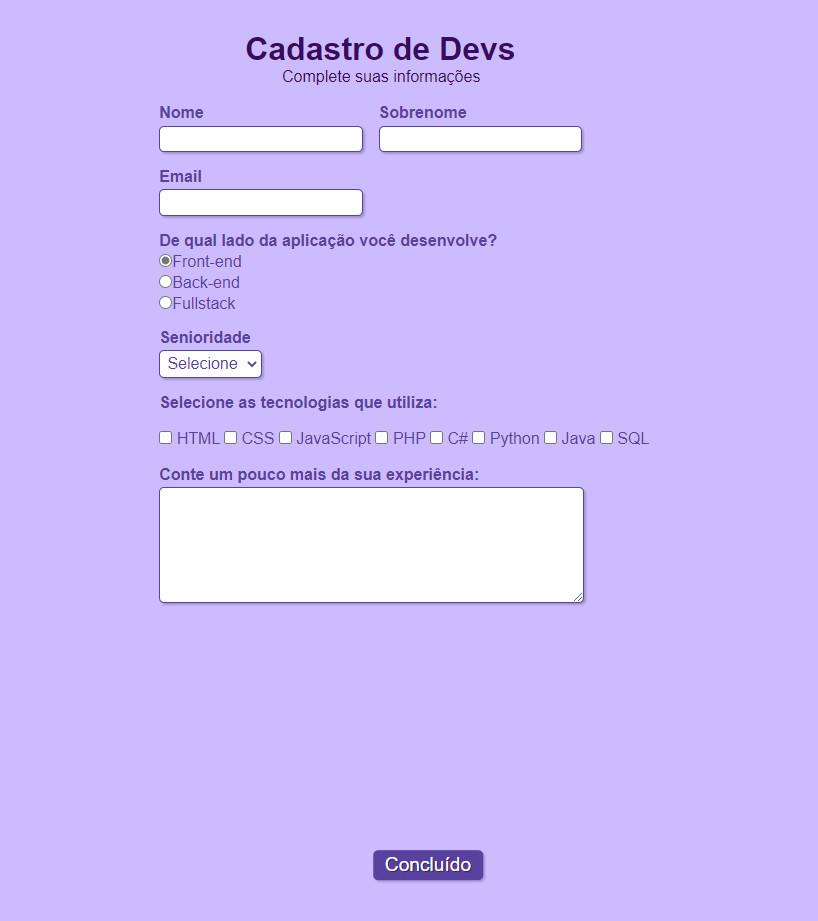
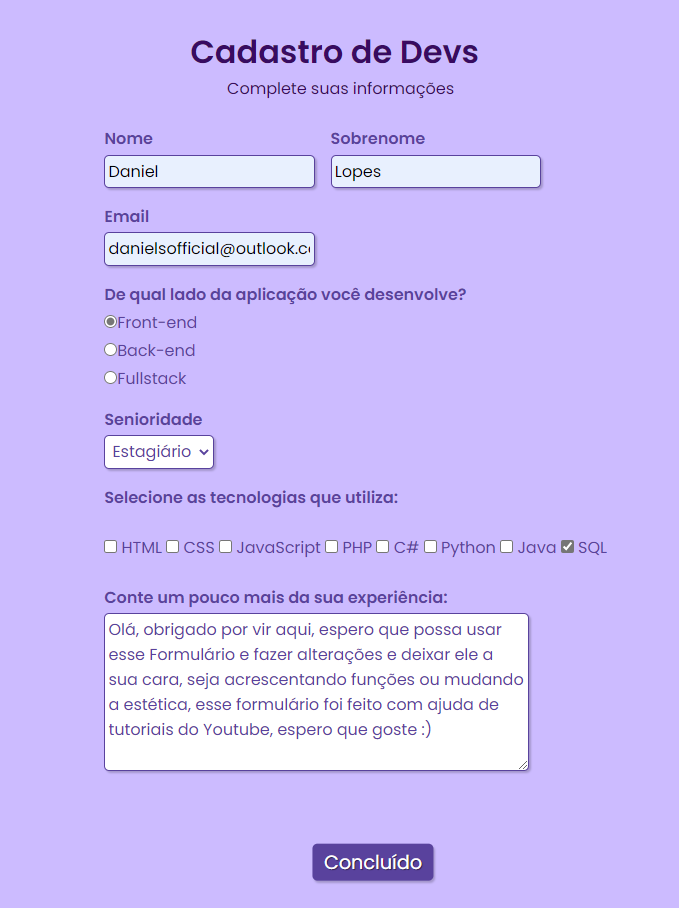
Fonte Da Pagina
Mudança na fonte da pagina, para deixar a pagina com uma cara melhor

Changed region(s): [[0.1546, 0.0308, 0.8969, 0.8634], [0.433, 0.9251, 0.6495, 0.9868]]

diff --git a/Formulario.css b/Formulario.css
@@ -1,3 +1,5 @@
+@import url('https://fonts.googleapis.com/css2?family=Poppins:wght@100;200;300;400;500;600&display=swap');
+
 /* Todos os elementos da página */
 * {
     margin: 0;
@@ -6,14 +8,14 @@
 
 /* Elementos com o ID "titulo" */
 #titulo {
-    font-family: sans-serif;
+    font-family: "Poppins", sans-serif;
     color: #380B61;
     margin-left: 7%;
 } 
 
 /* Elementos com o ID "subtitulo" */
 #subtitulo {
-    font-family: sans-serif;
+    font-family: "Poppins", sans-serif;
     color: #380B61;
     margin-left: 10%;
 } 
@@ -30,7 +32,7 @@ fieldset {
 /* Elemento de tag <body> */
 body{
     background-color: #CCBBFF;
-    font-family: sans-serif;
+    font-family: "Poppins", sans-serif;
     font-size: 1em;
     color: #59429d;
     margin-left: 36%;
@@ -40,7 +42,7 @@ body{
 
 /* Elementos de tags <body>, <input>, <Select>, <textarea> e <button> */
 input, select, textarea, button {
-    font-family: sans-serif;
+    font-family: "Poppins", sans-serif;
     font-size: 1em;
     color: #59429d;
     border-radius: 5px;
